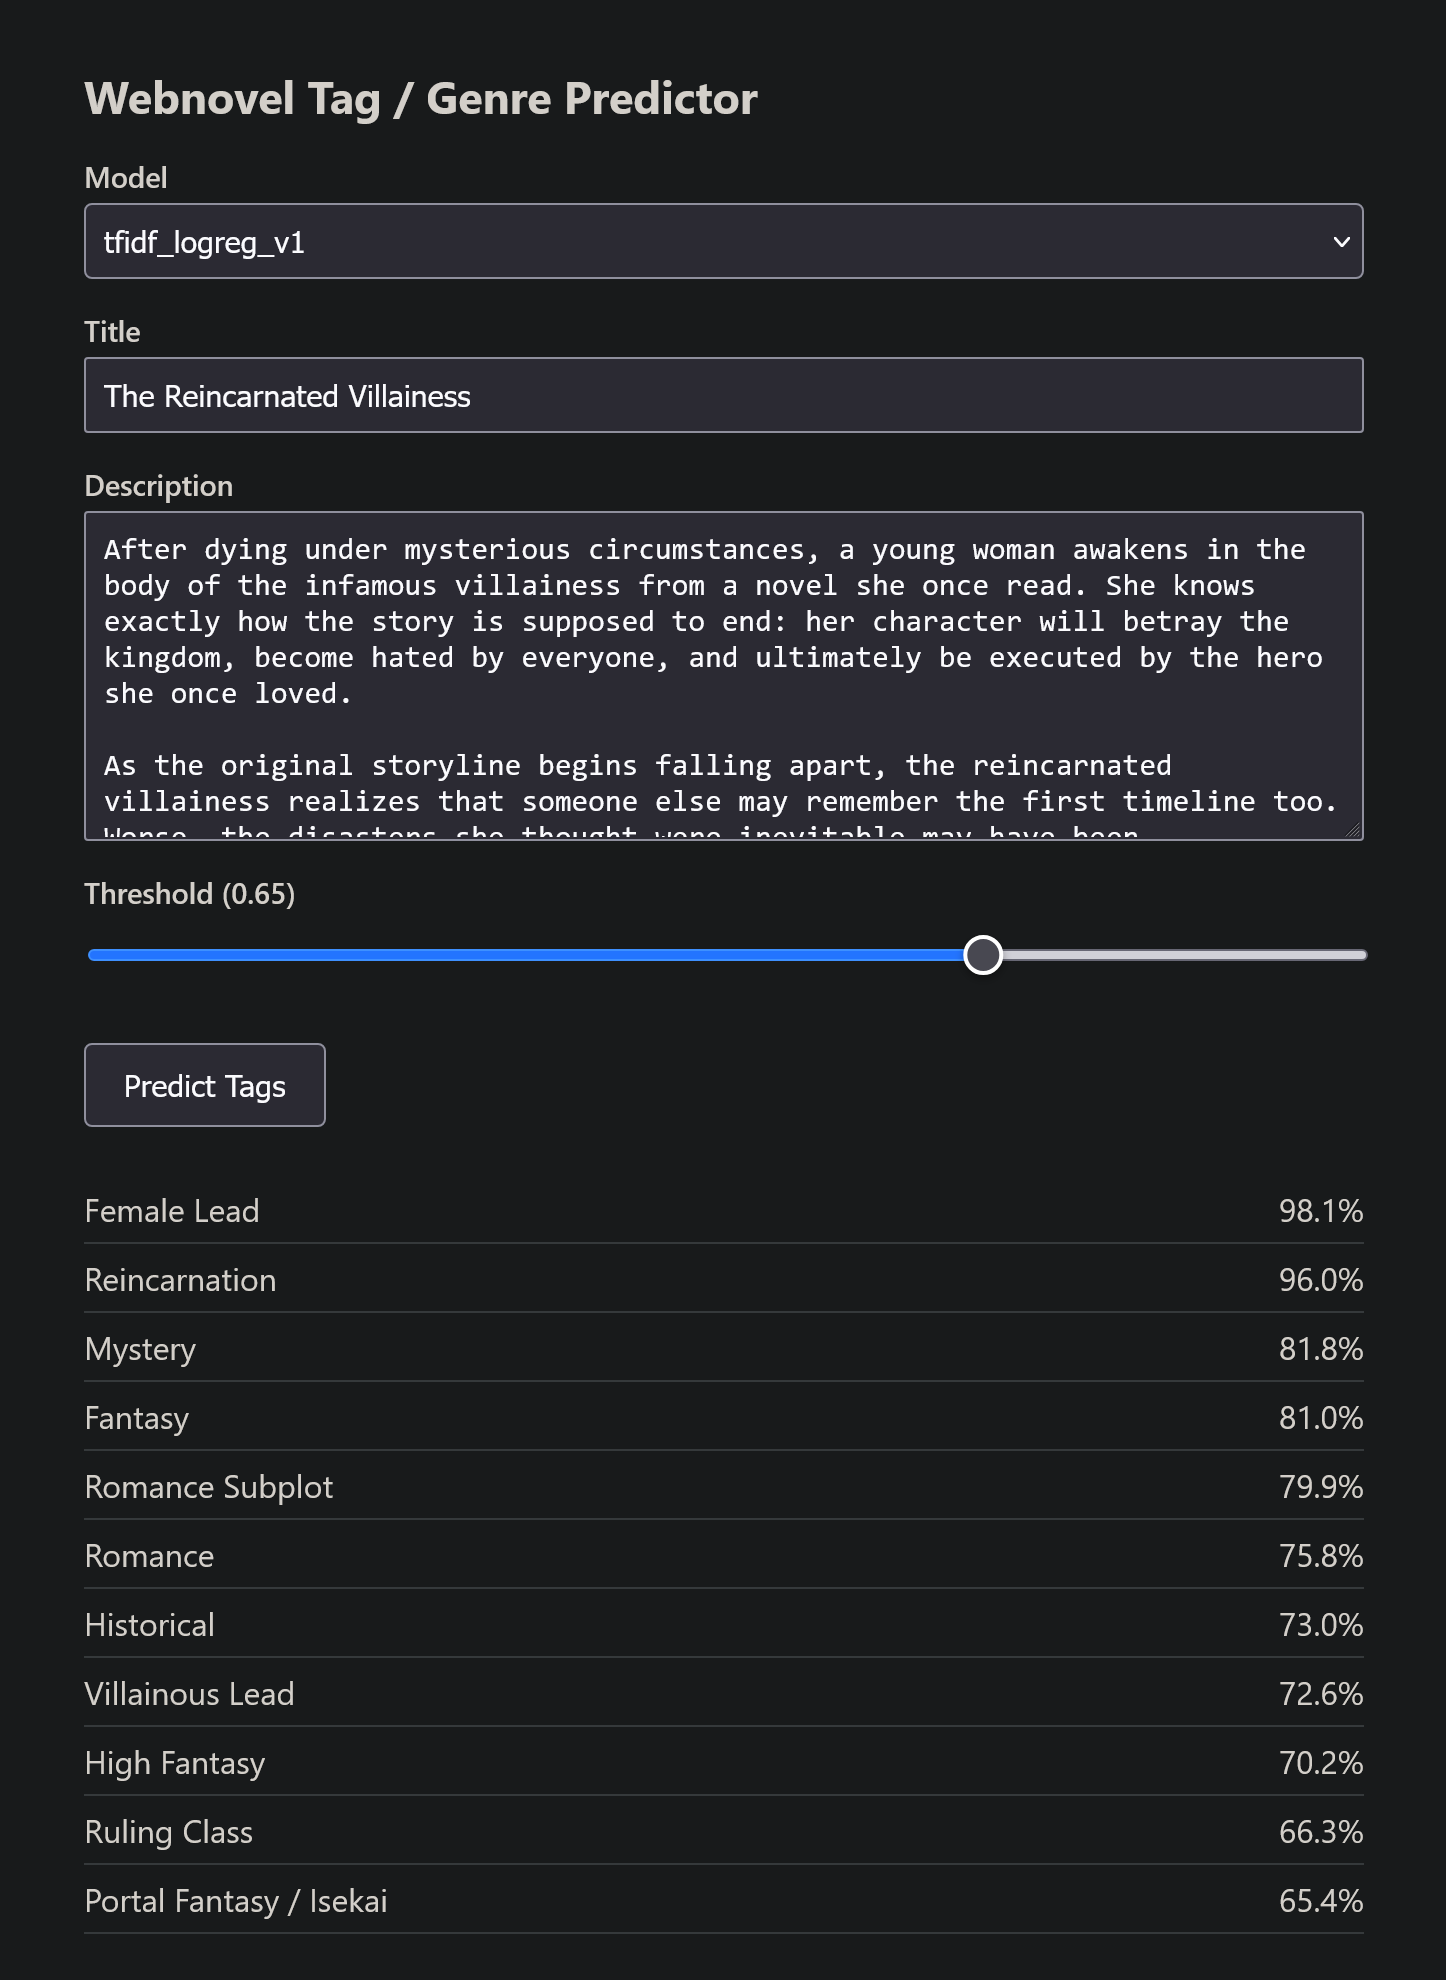
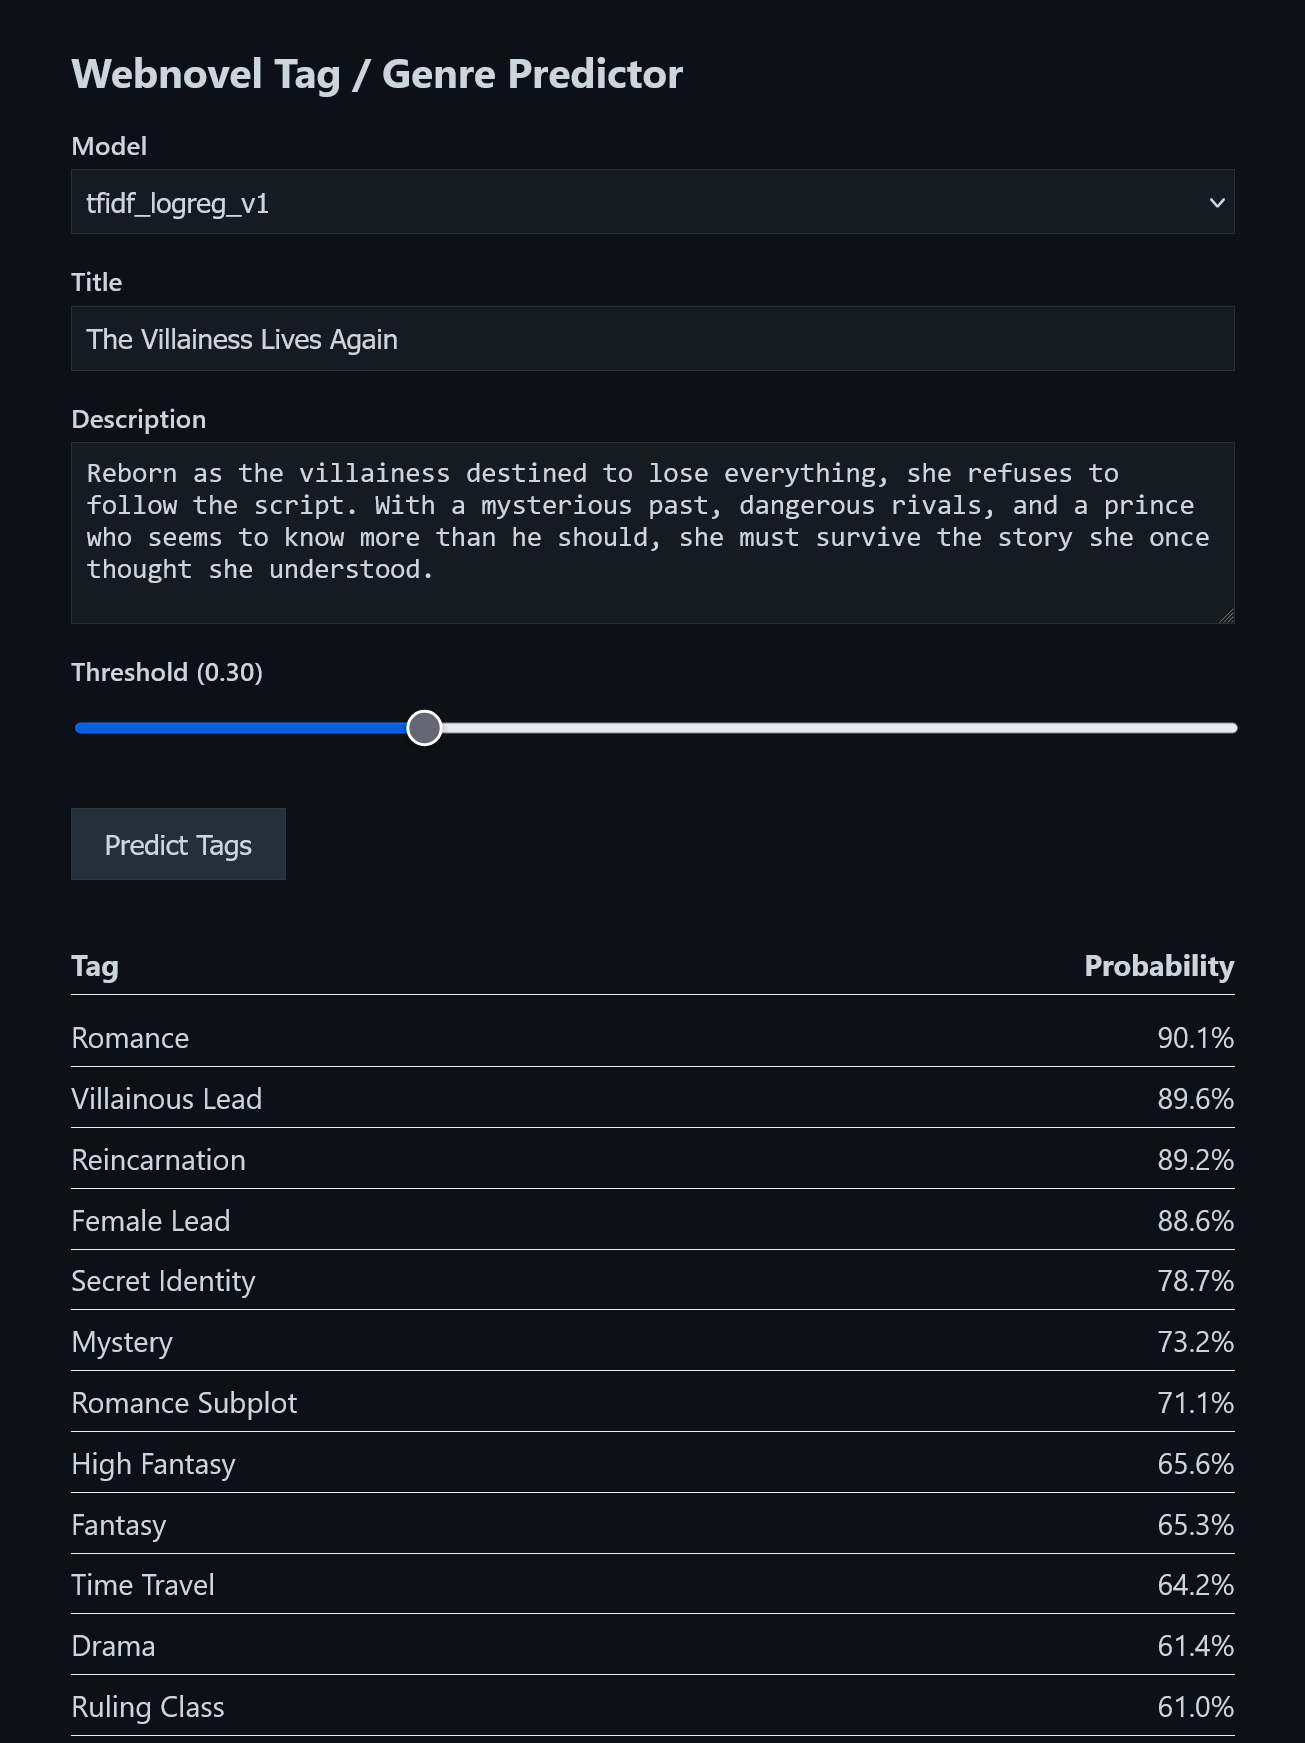
update frontend

Changed region(s): [[0.0307, 0.031, 0.9502, 0.9914], [0.8889, 0.5886, 0.9502, 0.9914], [0.8276, 0.5267, 0.9502, 0.5577]]

diff --git a/static/css/style.css b/static/css/style.css
@@ -3,7 +3,8 @@ body {
     margin: 40px auto;
     padding: 0 16px;
 
-    color: #222;
+    background: #0D1117;
+    color: #ccd4dc;
     font-family: system-ui, sans-serif;
 }
 
@@ -27,6 +28,10 @@ textarea {
     margin-top: 4px;
     padding: 8px;
 
+    background: #161b22;
+    color: #ccd4dc;
+
+    border: 1px solid #2a2f34;
     font-size: 0.95rem;
 }
 
@@ -38,13 +43,18 @@ textarea {
 button {
     margin-top: 20px;
     padding: 10px 18px;
+    margin-bottom: 30px;
 
+    background: #252f3b;
+    color: #ccd4dc;
+
+    border: 1px solid #30363d;
     font-size: 0.95rem;
     cursor: pointer;
 }
 
 #results {
-    margin-top: 24px;
+    margin-top: 6px;
 }
 
 .tag-row {

diff --git a/static/index.html b/static/index.html
@@ -44,6 +44,11 @@
 
       <button id="predictBtn">Predict Tags</button>
 
+      <div class="tag-row">
+        <strong>Tag</strong>
+        <strong>Probability</strong>
+      </div>
+
       <div id="results"></div>
       <div id="error" class="error"></div>
     </main>

diff --git a/README.md b/README.md
@@ -8,7 +8,6 @@ A machine-learning system for predicting genres and tags from webnovel titles an
 - TF-IDF + One-vs-Rest Logistic Regression baseline
 - Automatic discovery of .pkl models
 - CLI training pipeline
-- Built-in validation and classification reports
 - FastAPI backend with a lightweight frontend
 
 ## Interface
